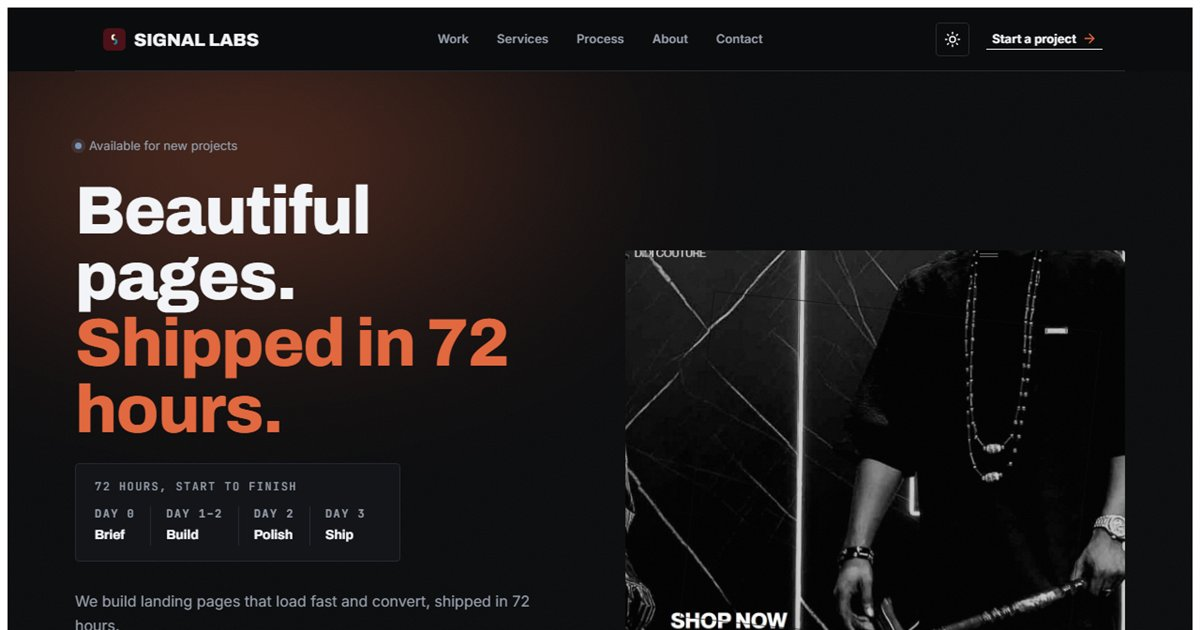
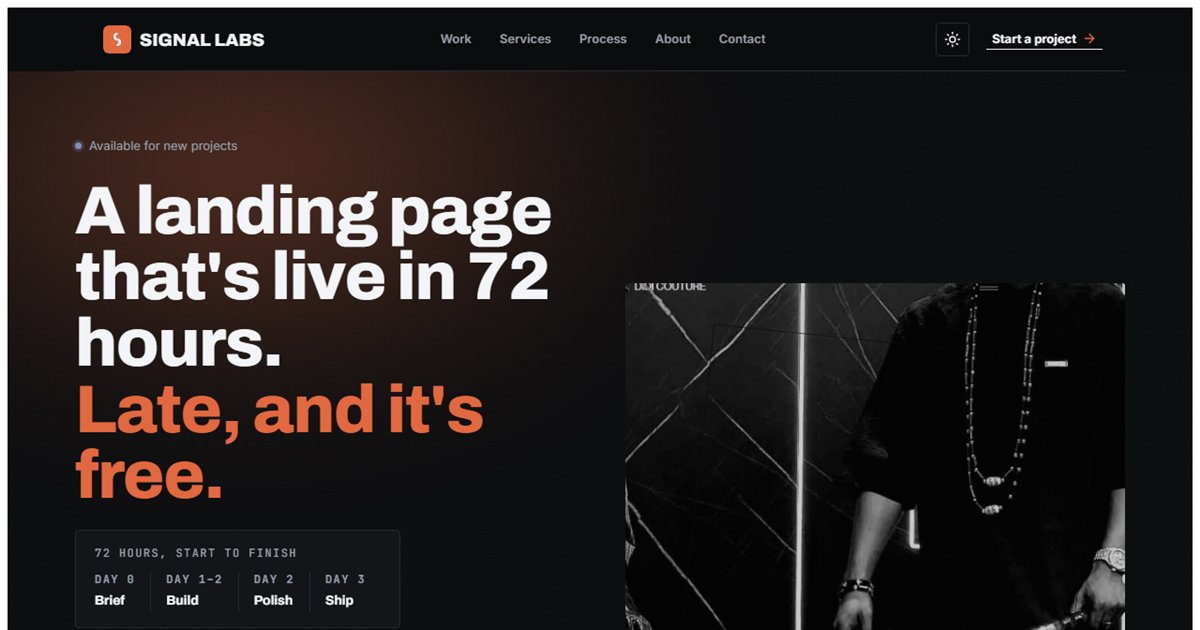
rewrite the headline around the guarantee, not a generic claim
"Beautiful pages." is a claim every studio makes. Replaces it with
the actual differentiator: "A landing page that's live in 72 hours.
Late, and it's free." (matches the existing 100%-money-back-if-late
guarantee already stated elsewhere on the page). Updates <title>,
meta description, OG/Twitter tags, and the JSON-LD description to
match, and regenerates the OG card image since it visually bakes in
the old headline text.

diff --git a/index.html b/index.html
@@ -3,22 +3,22 @@
   <head>
     <meta charset="UTF-8" />
     <meta name="viewport" content="width=device-width, initial-scale=1.0" />
-    <meta name="description" content="Signal Labs: landing pages that load fast and convert, shipped in 72 hours." />
-    <title>Signal Labs — Landing pages in 72 hours</title>
+    <meta name="description" content="A landing page that's live in 72 hours. Late, and it's free." />
+    <title>Signal Labs: Live in 72 hours, or it's free</title>
     <link rel="icon" type="image/svg+xml" href="/favicon.svg" />
     <link rel="preload" href="/fonts/archivo-var.woff2" as="font" type="font/woff2" crossorigin />
     <link rel="canonical" href="https://signal-labs-co.vercel.app/" />
 
     <meta property="og:type" content="website" />
     <meta property="og:url" content="https://signal-labs-co.vercel.app/" />
-    <meta property="og:title" content="Signal Labs — Landing pages in 72 hours" />
-    <meta property="og:description" content="Signal Labs: landing pages that load fast and convert, shipped in 72 hours." />
+    <meta property="og:title" content="Signal Labs: Live in 72 hours, or it's free" />
+    <meta property="og:description" content="A landing page that's live in 72 hours. Late, and it's free." />
     <meta property="og:image" content="https://signal-labs-co.vercel.app/og-image.jpg" />
     <meta property="og:image:width" content="1200" />
     <meta property="og:image:height" content="630" />
     <meta name="twitter:card" content="summary_large_image" />
-    <meta name="twitter:title" content="Signal Labs — Landing pages in 72 hours" />
-    <meta name="twitter:description" content="Signal Labs: landing pages that load fast and convert, shipped in 72 hours." />
+    <meta name="twitter:title" content="Signal Labs: Live in 72 hours, or it's free" />
+    <meta name="twitter:description" content="A landing page that's live in 72 hours. Late, and it's free." />
     <meta name="twitter:image" content="https://signal-labs-co.vercel.app/og-image.jpg" />
 
     <script type="application/ld+json">
@@ -26,7 +26,7 @@
         "@context": "https://schema.org",
         "@type": "ProfessionalService",
         "name": "Signal Labs",
-        "description": "Landing pages that load fast and convert, shipped in 72 hours.",
+        "description": "A landing page that's live in 72 hours. Late, and it's free.",
         "areaServed": "Worldwide",
         "priceRange": "$50-$650",
         "email": "signallabs42@gmail.com",

diff --git a/src/sections/Hero.jsx b/src/sections/Hero.jsx
@@ -16,9 +16,9 @@ export default function Hero({ go }) {
           </span>
 
           <h1 className="hero-title">
-            Beautiful pages.
+            A landing page that's live in 72 hours.
             <br />
-            <em>Shipped in 72 hours.</em>
+            <em>Late, and it's free.</em>
           </h1>
 
           <DeliveryStrip />
